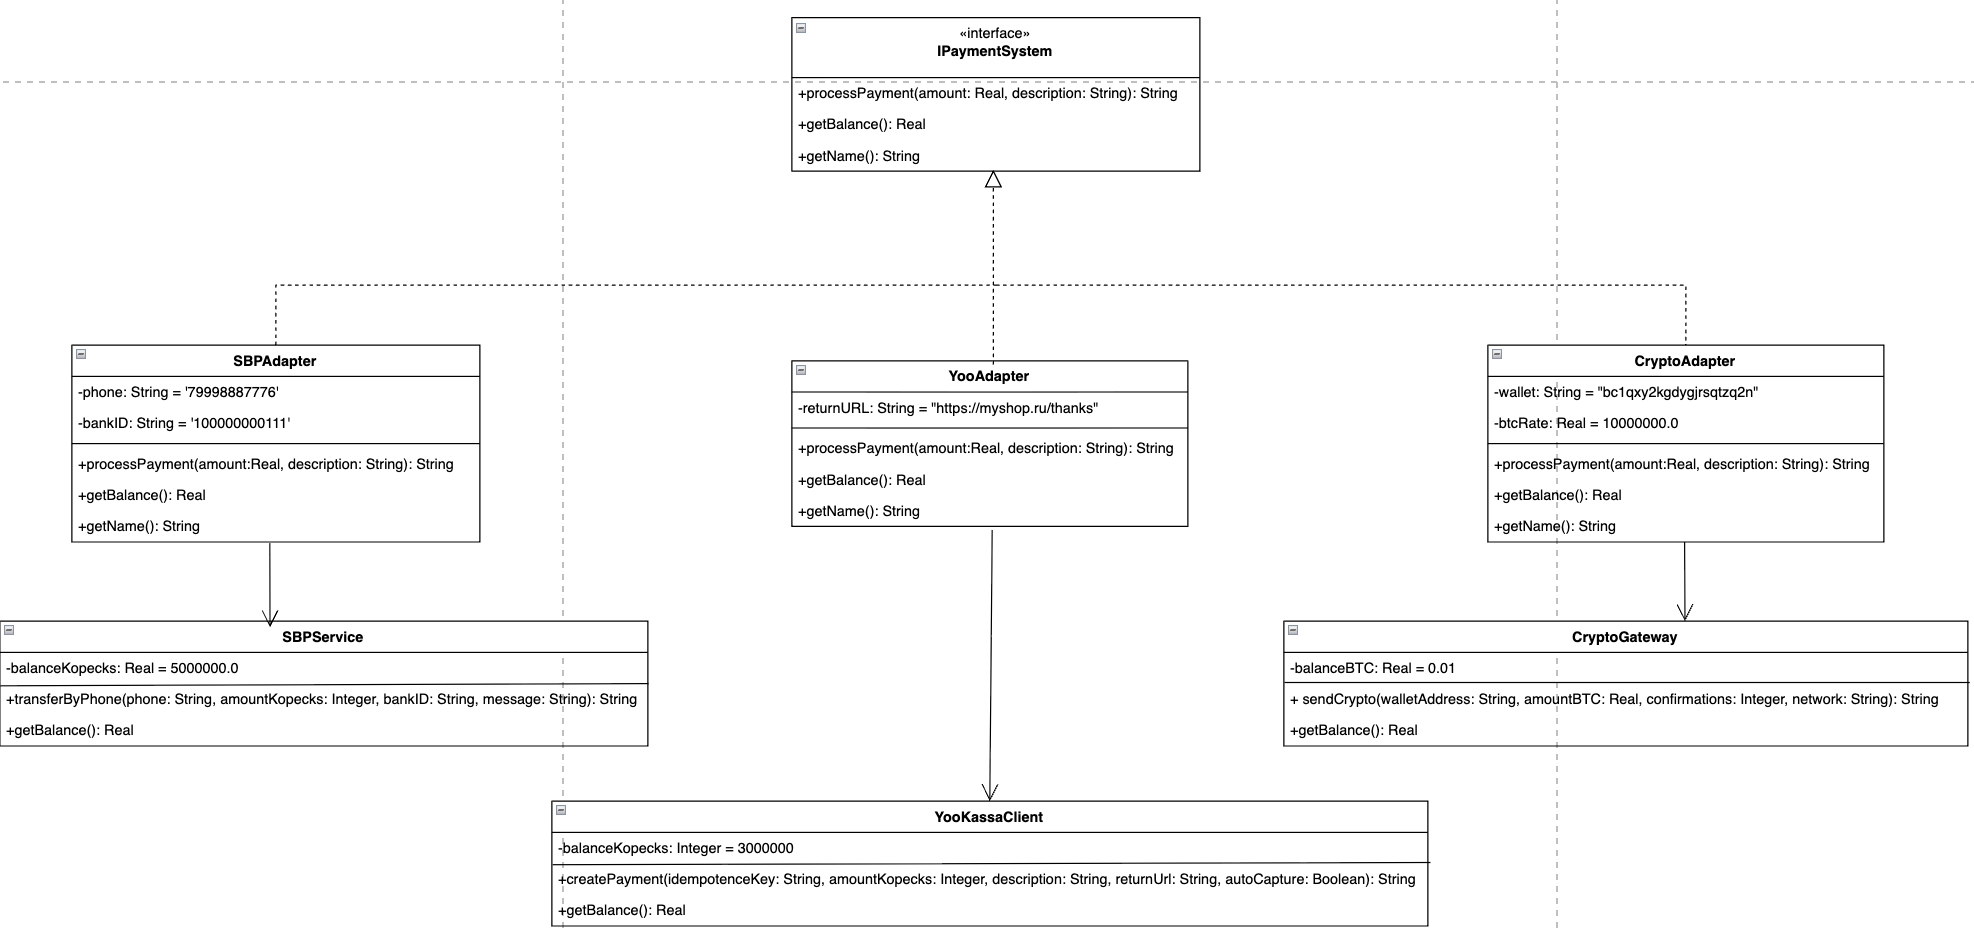
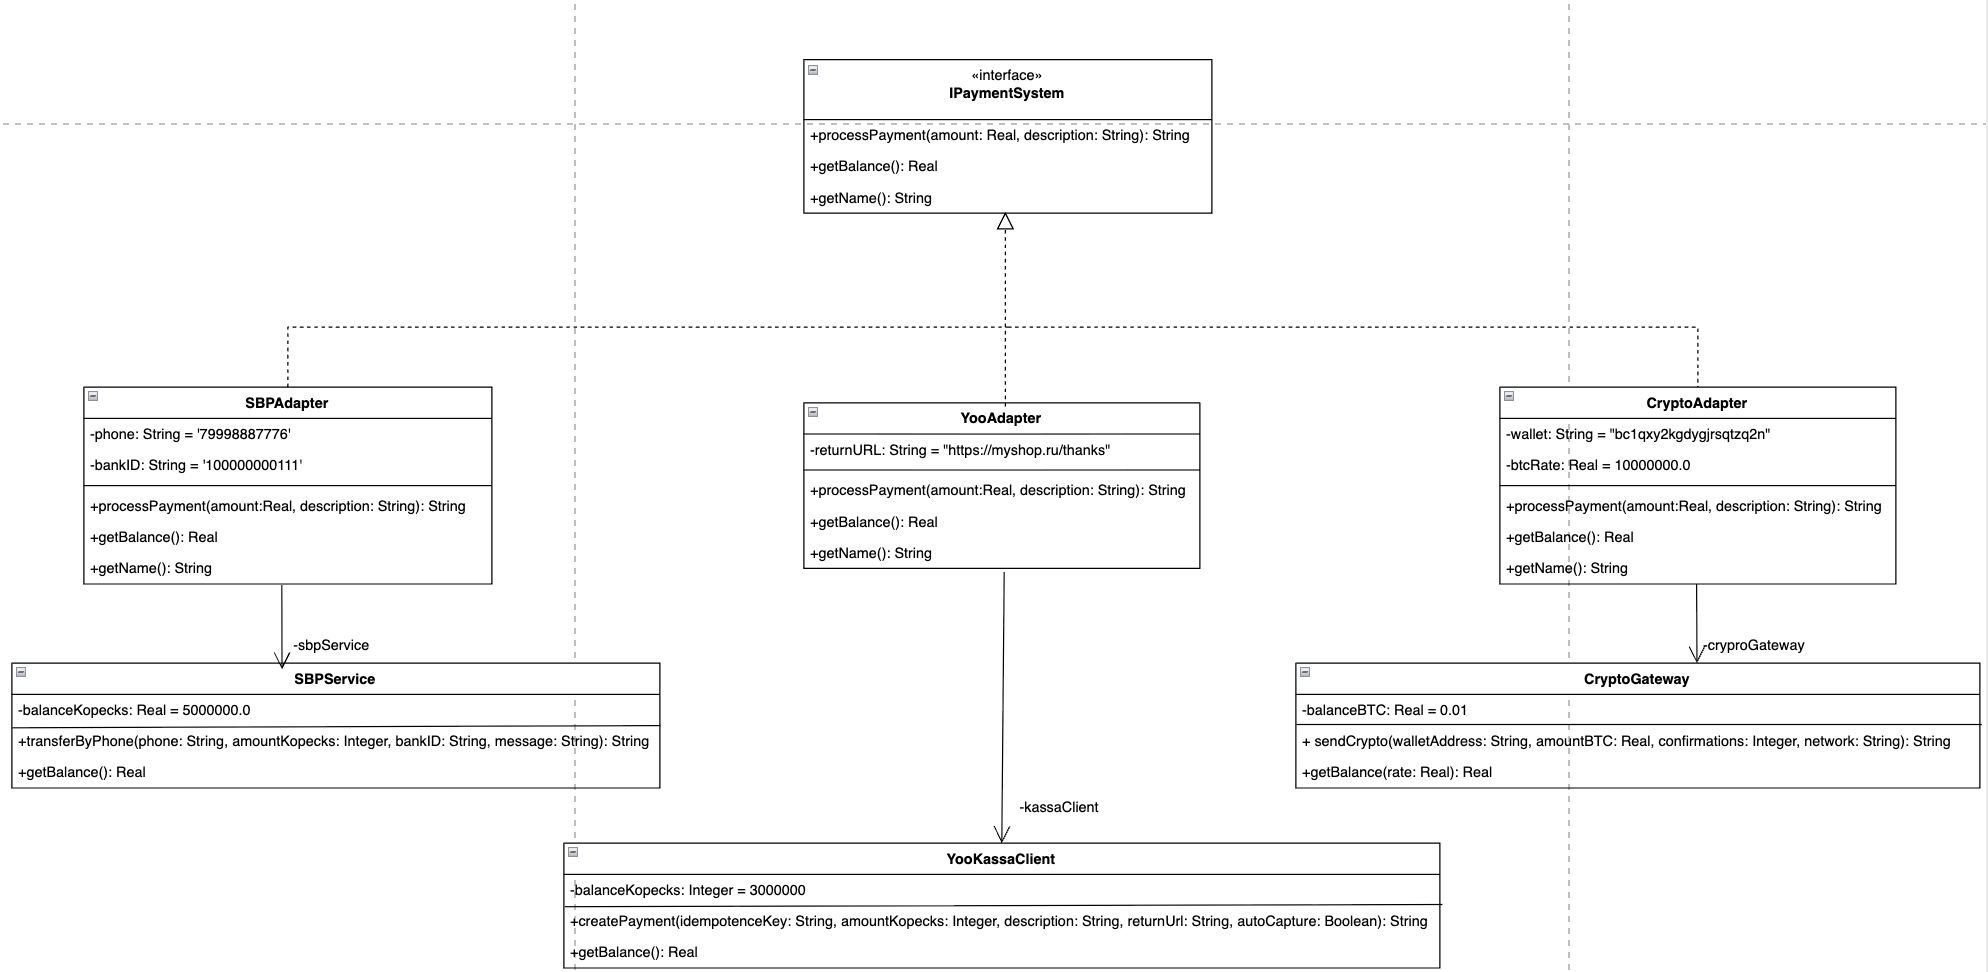
upd

diff --git a/lab02/with_pattern/with_pattern.cpp b/lab02/with_pattern/with_pattern.cpp
@@ -73,7 +73,6 @@ public:
                " BTC на " + walletAddress +
                " (" + network + ", " + std::to_string(confirmations) + " подтв.)";
     }
-    double getBalanceBTC() const { return balanceBTC; }
     double getBalance(double rate) const { return balanceBTC * rate; }
 };
 
